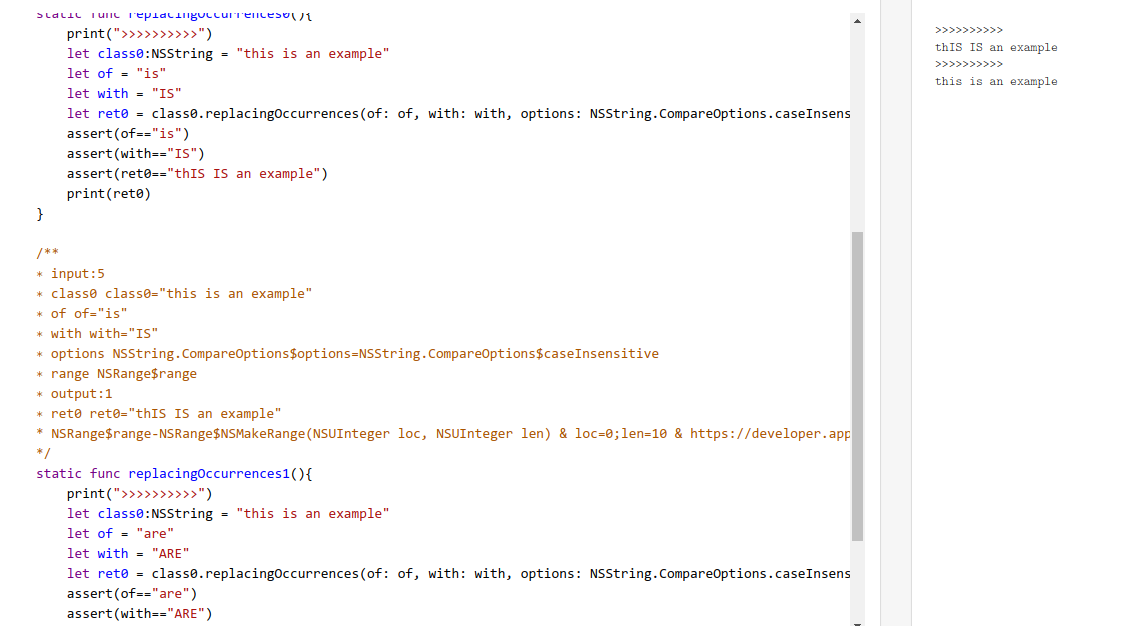
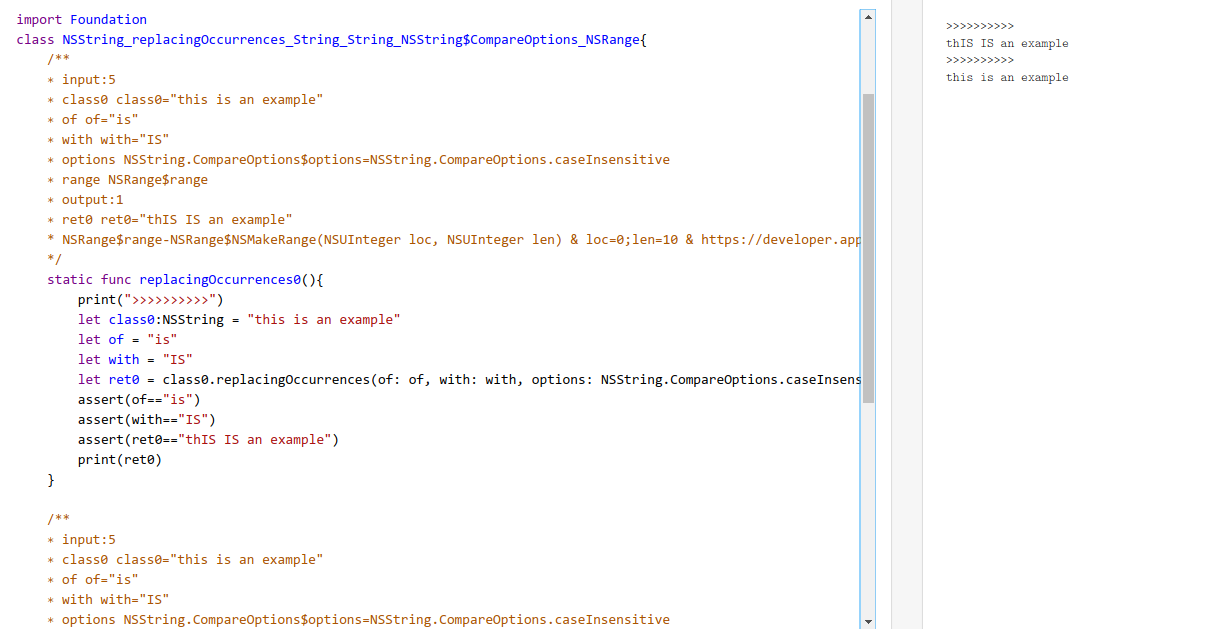
update NSString_replacingOccurrences_String_String_NSString.swift & png

diff --git a/MF1933125/swift/NSString_replacingOccurrences_String_String_NSString$CompareOptions_NSRange.swift b/MF1933125/swift/NSString_replacingOccurrences_String_String_NSString$CompareOptions_NSRange.swift
@@ -12,7 +12,7 @@ class NSString_replacingOccurrences_String_String_NSString$CompareOptions_NSRang
 	∗ class0 class0="this is an example"
 	∗ of of="is"
 	∗ with with="IS"
-	∗ options NSString.CompareOptions$options=NSString.CompareOptions$caseInsensitive
+	∗ options NSString.CompareOptions$options=NSString.CompareOptions.caseInsensitive
 	∗ range NSRange$range
 	∗ output:1
 	∗ ret0 ret0="thIS IS an example"
@@ -35,7 +35,7 @@ class NSString_replacingOccurrences_String_String_NSString$CompareOptions_NSRang
 	∗ class0 class0="this is an example"
 	∗ of of="is"
 	∗ with with="IS"
-	∗ options NSString.CompareOptions$options=NSString.CompareOptions$caseInsensitive
+	∗ options NSString.CompareOptions$options=NSString.CompareOptions.caseInsensitive
 	∗ range NSRange$range
 	∗ output:1
 	∗ ret0 ret0="thIS IS an example"
